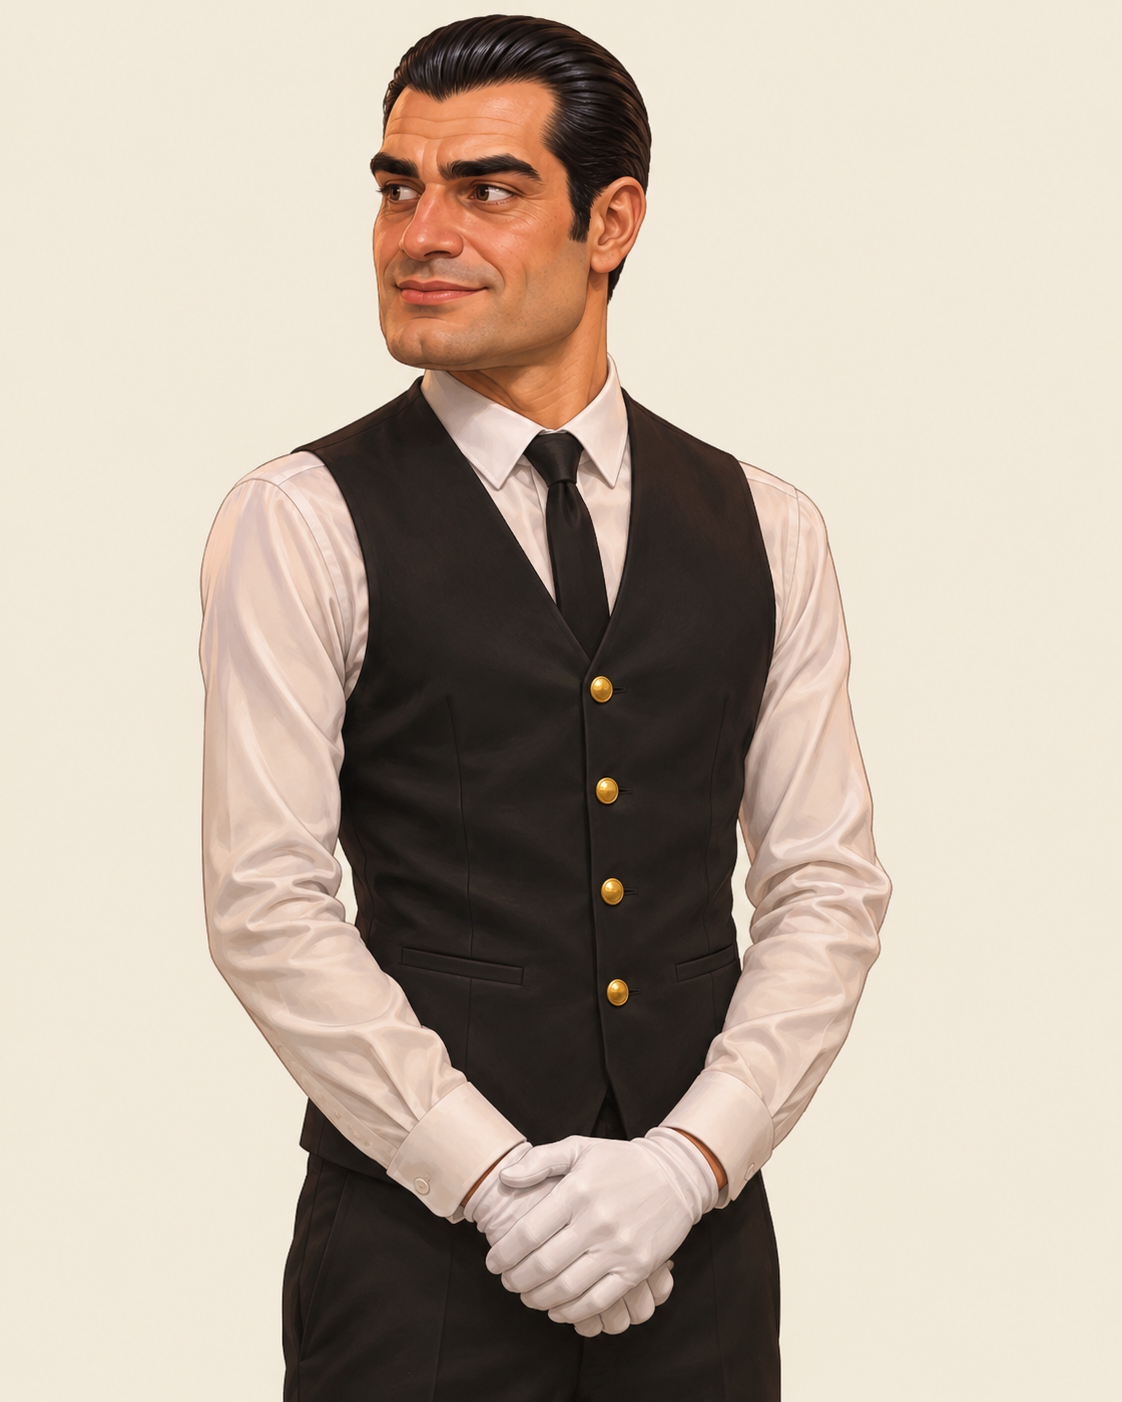
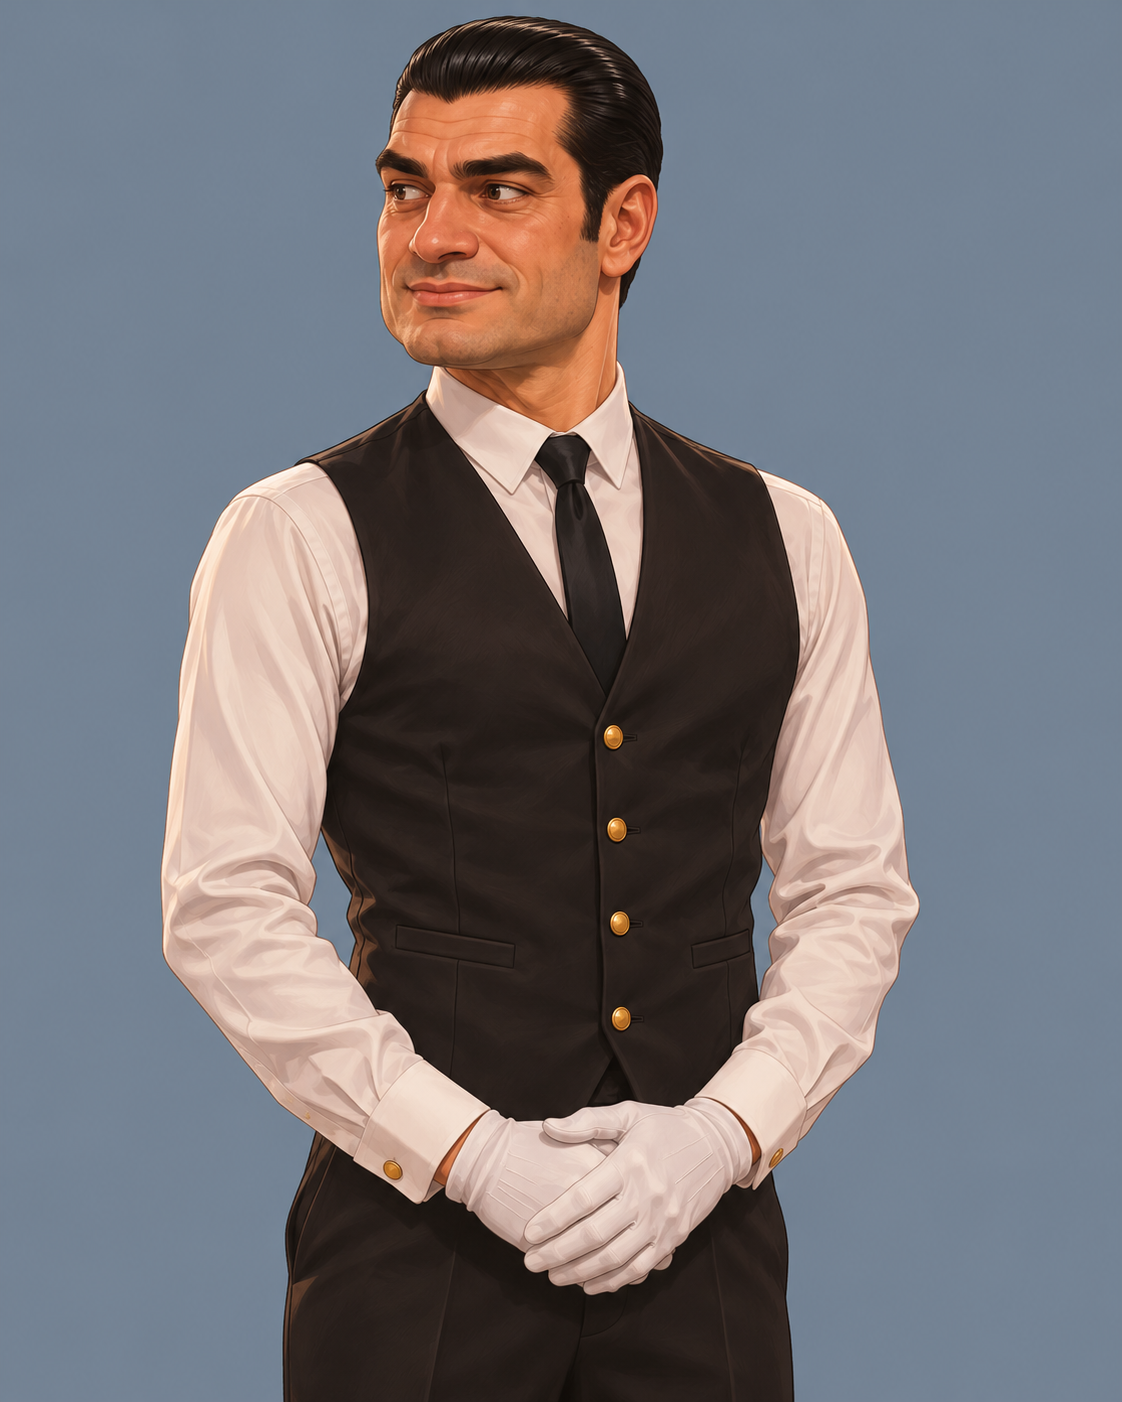
Kapı: onaylı resim vakanın tamamını değil yalnız kendini denetletir (üç araç + el onayı); V7 Parti 1'in 6 resmi onayli/'e, zemin.tsv (Barbaros)

diff --git a/.claude/kapi_hook.js b/.claude/kapi_hook.js
@@ -12,7 +12,8 @@
 //      Sahibi söz değişikliğini onayladıysa commit iletisine `[söz onaylı]` yazılır.
 //  (b) onay: uretim/v<N>/onayli/G<n>.png (Vaka 6+) kaydedilirken tarz, yüz ve benzerlik araçları yeniden koşar; GEÇTİ
 //      demeyen resim onaylı kaydedilmez — DENETIM-2, DENETIM-8, DENETIM-53. Sahibinin "kalsın"ı:
-//      sablon/vakalar/vaka<N>_kapi.md → ## kalsın satırı `- G<n> | tarz|yüz|benzerlik | <sebep>`.
+//      sablon/vakalar/vaka<N>_kapi.md → ## kalsın satırı `- G<n> | tarz|yüz|benzerlik | <sebep>`. El onayı da aranır
+//      (arac_el.py --kapi; DENETIM-13). 23 Kasım 2026'dan beri onaylı resim vakanın TAMAMININ resim kapısını açmaz (yalnız (d)).
 //
 // İKİ KİP: Claude Code'da PreToolUse (stdin JSON). Git kancası olarak: `.githooks/commit-msg` → `node .claude/kapi_hook.js --git <ileti>`
 // (Codex ve terminal commit'leri de geçer; bir kez `git config core.hooksPath .githooks`). Git kancası kuruluysa Claude Code kipi
@@ -126,7 +127,10 @@ const resimVaka = new Set();
 const is = [];
 for (const n of vakalar) {
   const kendi = dosyalar.filter(f => f.startsWith(`sablon/vakalar/vaka${n}_`) || f.startsWith(`uretim/v${n}/`));
-  const resim = resimVaka.has(n) || kendi.some(f => /^uretim\/v\d+\/(onayli|el_onay)/.test(f) || /_gorsel\.md$/.test(f));
+  // 23 Kasım 2026 (Barbaros, V7 ilk üretim denemesi): onaylı resim, el onayı ve görsel tablosu artık BÜTÜN vakanın resim
+  // kapısını açmaz — üretim sürerken her onayda vakanın tamamı (poz kaydı, satır–resim) kalıyor, hiçbir onay kaydedilemiyordu.
+  // Onaylı resim yalnız kendi denetimlerinden geçer (aşağıda (b): üç araç + el onayı); vakanın tamamı gömmede ((d)) denetlenir.
+  const resim = resimVaka.has(n);
   const metin = metinHepsi || metinVaka.has(n) || kendi.some(f => /_(diyalog|kapi|bayrak)\.md$/.test(f));
   if (resim) is.push(['V' + n, 'resim']); else if (metin) is.push(['V' + n, 'hikaye']);
 }
@@ -265,6 +269,14 @@ for (const [v, gler] of Object.entries(onay)) {
     const satir = ((r.stdout || '') + (r.stderr || '')).split('\n').filter(l => /^\s*(YÜZ\s+|BENZERLİK\s+)?(KALDI|ŞÜPHELİ|DUR)/.test(l)).slice(0, 6).join(' | ');
     const ne = { 1: 'ŞÜPHELİ', 2: 'KALDI', 3: 'DUR (sınır kurulamadı — sahibine)' }[r.status] || 'araç çalışmadı';
     dur.push(`${v} onay — ${ad} ${ne}: ${satir || son(r)} — onaylı kaydedilmez (DENETIM-2/8/53). Sahibi "kalsın" dediyse vaka${n}_kapi.md → ## kalsın: \`- G<n> | ${ad} | <sebep>\`.`);
+  }
+  // El onayı (DENETIM-13; 23 Kasım 2026): kişi görünen onaylı resmin el sayfasına bakılmış ve sahibince onaylanmış olmalı
+  // (imza tutmalı). Kişi sayısı bilinmeyen resim (ör. kıyafet kartı, görsel tablosu yokken) araçta atlanır.
+  const elBak = gler.filter(g => !/z$/.test(g));
+  if (elBak.length) {
+    const r = spawnSync(require(path.join(kok, 'kaynak', 'arac_python.js')).python(), ['arac_el.py', '--kapi', 'V' + n, ...elBak],
+      { cwd: KAYNAK, encoding: 'utf8', maxBuffer: 1 << 26, env: Object.assign({}, process.env, { PYTHONIOENCODING: 'utf-8' }) });
+    if (r.status !== 0) dur.push(`${v} onay — el onayı yok ya da resim değişti: ${((r.stdout || '') + (r.stderr || '')).split('\n').filter(l => /^K5/.test(l)).slice(0, 6).join(' | ') || son(r)} — python arac_el.py --sayfa V${n} <G…>, sahibi bakar, sonra --onay (DENETIM-13).`);
   }
 }
 

diff --git a/kaynak/arac_el.py b/kaynak/arac_el.py
@@ -11,6 +11,8 @@
 #   python arac_el.py --kapi V6            → kapı: onaysız ya da değişmiş resim, kişi sayısı tutmayan resim → çıkış 1
 # Modeller ilk kullanımda indirilir (~350 MB, huggingface.co/yzd-v/DWPose, Apache-2.0) → ~/.cache/paravan/.
 import os, re, sys, hashlib, urllib.request
+try: sys.stdout.reconfigure(encoding="utf-8")   # Windows konsolu (cp1252) "→" basamıyordu — 23 Kasım 2026
+except Exception: pass
 import numpy as np
 from PIL import Image, ImageDraw, ImageFont
 

diff --git a/sablon/vakalar/vaka7_gorsel.md b/sablon/vakalar/vaka7_gorsel.md
@@ -1,0 +1,30 @@
+# VAKA 7 — GÖRSEL LİSTESİ
+
+Kaynak: `uretim/v7/prompts/G<n>.md` (istemlerin tam metni orada). Bu tablo `arac_paket.js` ve `arac_el.py`'nin numara → tür/anahtar
+eşlemesidir; 23 Kasım 2026'da `uretim/v7/LISTE.md`'den (Parti 1) üretildi. Kıyafet kartları oyuna gömülmez. `G<n>z` zemin
+denemeleri listede yok (seçilen `G<n>.png` olur). Parti 2–3 yazılınca buraya eklenir.
+
+## Liste
+
+| # | tür | ne | anahtar | referans | aşama |
+|---|---|---|---|---|---|
+| G1 | kıyafet kartı | Peri, bordo kadife etek + krem triko (`kadife7`; 22 Kas: manto Vaka 7'de yok) | — | (istemde) | Parti 1 |
+| G2 | kıyafet kartı | Peri, gece mavisi balo elbisesi (`gala`; `altin`, `altin_temiz` hâlleri bu karttan) | — | (istemde) | Parti 1 |
+| G3 | kıyafet kartı | Cengo, kiralık smokin (`smokin`, `smokin_tepsi`) | — | (istemde) | Parti 1 |
+| G4 | figür | Süheyla Hanım, normal (temel) — açık bej / gri-mavi | `suheyla.normal` | (istemde) | Parti 1 |
+| G5 | figür | Nesrin Hanım, normal (temel) — gri-mavi / açık bej | `nesrin.normal` | (istemde) | Parti 1 |
+| G6 | figür | Şükrü Bey, normal (temel) — gri-mavi / açık bej | `sukru.normal` | (istemde) | Parti 1 |
+| G7 | figür | Vedat Bey, şakacı (temel; `normal` satırda yok) — gri-mavi / açık bej | `vedat.sakaci` | (istemde) | Parti 1 |
+| G8 | figür | Kaan, normal (temel) — açık bej / gri-mavi | `kaan.normal` | (istemde) | Parti 1 |
+| G9 | figür | Ercan (vale), normal (temel) — açık bej / gri-mavi | `ercan.normal` | (istemde) | Parti 1 |
+| G10 | figür | Necmi, normal (temel) — gri-mavi / açık bej | `necmi.normal` | (istemde) | Parti 1 |
+| G11 | arka plan | Büro, gündüz (yeni açı; köşede paravan) | `A58` | (istemde) | Parti 1 |
+| G12 | arka plan | Büro, gece (G11'in aynı açısı) | `A59` | (istemde) | Parti 1 |
+| G13 | arka plan | Müzayede evinin bodrum deposu (tablo, boş yaldız çerçeve) | `A50` | (istemde) | Parti 1 |
+| G14 | arka plan | Teşvikiye, eski lokanta | `A51` | (istemde) | Parti 1 |
+| G15 | arka plan | Müzayede evinin kapısı, vale kulübesi | `A52` | (istemde) | Parti 1 |
+| G16 | arka plan | Vedat'ın Maçka salonu (solmamış dikdörtgen) | `A53` | (istemde) | Parti 1 |
+| G17 | arka plan | Arka avlu (basamaklar, kediler, konteyner) | `A54` | (istemde) | Parti 1 |
+| G18 | arka plan | Feriköy Antika Pazarı | `A55` | (istemde) | Parti 1 |
+| G19 | arka plan | Çerçeve odası | `A56` | (istemde) | Parti 1 |
+| G20 | arka plan | Müzayede salonu (kürsü, kaide, taçlı vitrin) | `A57` | (istemde) | Parti 1 |

diff --git a/uretim/v7/DURUM.md b/uretim/v7/DURUM.md
@@ -1,3 +1,5 @@
+**23 Kasım 2026, 09:45 — PARTİ 1'İN 7 RESMİ onayli/'de; KAPI DÜZELDİ (Barbaros: "Evet").** Commit kapısı (`.claude/kapi_hook.js`) artık onaylı resim / el onayı / `vaka7_gorsel.md` için vakanın TAMAMINI denetlemiyor (üretim sürerken hep kalıyordu); onaylı resim yalnız kendi üç aracından ve el onayından (`arac_el.py --kapi`) geçer, vakanın tamamı gömmede. Seçilen zeminler: G5 = G5z, G8 = G8z, G9 = G9z (öbürleri `red/`). `zemin.tsv` yazıldı (`arac_zemin.py`): Ercan gri-mavi, öbürleri açık bej. ⚠ Kaan'ın temeli (G8z) gri-mavi ama saçı açık sarı — kesimde mavi hale riski; gömmede DENETIM-37 ile bak. `sablon/vakalar/vaka7_gorsel.md` yazıldı (LISTE'den). `arac_el.py` Windows'ta UTF-8 basıyor.
+
 **23 Kasım 2026, 09:30 — EL ONAYI (Barbaros):** G1, G4, G5 (=G5z), G6, G8 (=G8z), G9 (=G9z), G10 → `el_onay.md` (imza seçilen resmin; onayli/'e o resim `G<n>.png` adıyla girmeli, yoksa onay düşer).
 
 **23 Kasım 2026, 09:15 — PARTİ 1'İN YENİ RESİMLERİ BİTTİ (Barbaros'un bilgisayarı).** Her kişinin bir resmi üç aracı geçti: G1 Peri kartı (yüz 0,864) · Süheyla G4 ve G4z (yeni dolgun yüz, gözlük; Jale 0,42) · Nesrin **G5z** (G5 ŞÜPHELİ Jale 1,54) · Şükrü **G6** · Kaan **G8z** (yeni sarı saç; G8 ŞÜPHELİ Haldun 1,48) · Ercan **G9z** (yeni geniş kare yüz; G9 ŞÜPHELİ Cengo 1,52; ilk G9 Şükrü'ye 1,78 → `red/G9_red1`) · Necmi G10 ve G10z. Ercan da değişti (Barbaros onayladı): form, `adaylar.tsv`, G9/G9z istemleri. **Bekleyen:** el onayı (Barbaros; sayfalar `kaynak/YENI_UI/el/`); onayli/'e alınca commit kapısı bütün V7 resim denetimini koşuyor (poz kaydı, K6) — Parti 1 onayları vaka sonuna kadar yerelde tutulmalı ya da kapı partiye göre ayarlanmalı. `sablon/vakalar/vaka7_gorsel.md` yok (`arac_el.py` istiyor; yazılınca da kapı V7 resim denetimini başlatıyor). Bulunan iki araç hatası: `dongu.sh` `PY` (düzeldi), `arac_el.py` Windows'ta UTF-8 (`PYTHONIOENCODING=utf-8` ile koş).

diff --git a/uretim/v7/el_onay.md b/uretim/v7/el_onay.md
@@ -1,0 +1,12 @@
+# El onayı — kural 5
+
+El sayfasına (python kaynak/arac_el.py --sayfa V7 G<n>) bakılıp her elin kendi kolunda ve doğru
+(sağ/sol) olduğu görülen resimler. Onay sahibinindir (kendisi bakar ya da bakanın sonucunu onaylar). İmza resmin kendisinin; resim değişirse onay düşer, yeniden bakılır.
+
+- G1 83c53ba4eba4
+- G4 7f9c562ed55b
+- G5 d24bbec19ff9
+- G6 5a100bfdd96e
+- G8 aa5d8edcf42e
+- G9 4de69f00cd51
+- G10 c407de300044
